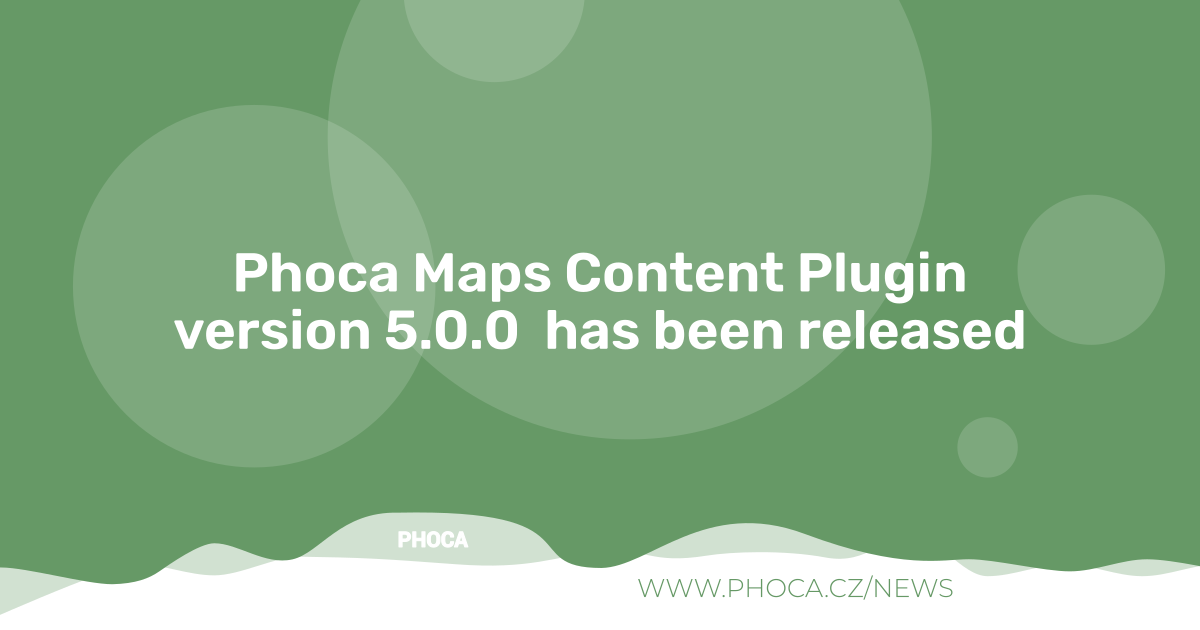
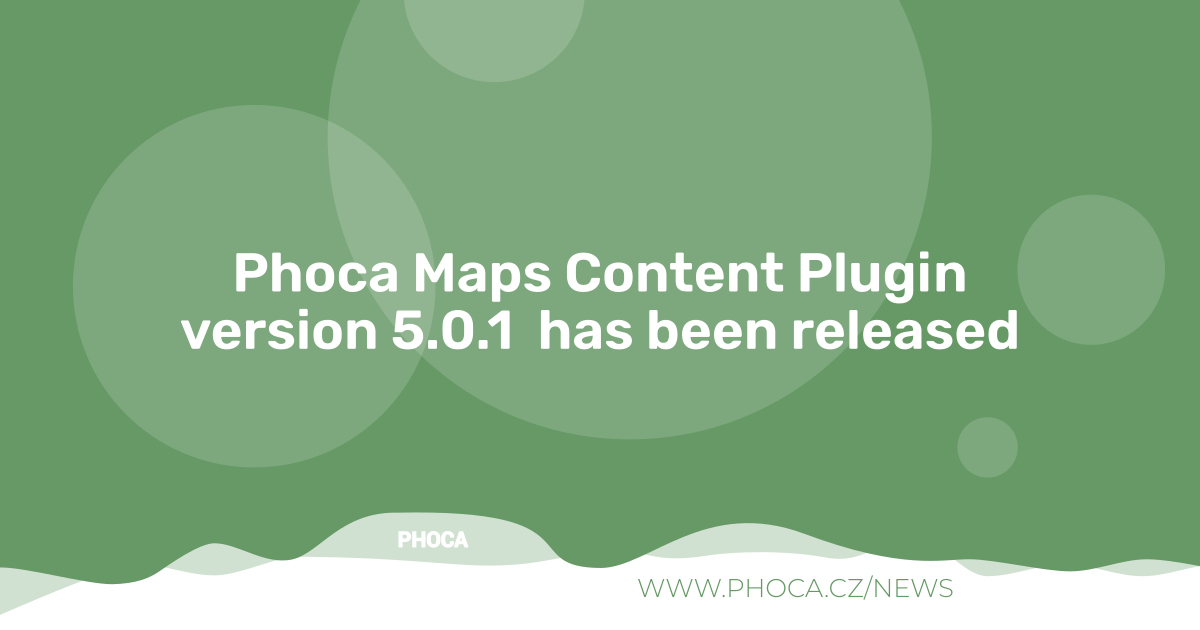
5.0.1

Changed region(s): [[0.1233, 0.4825, 0.8633, 0.573]]

diff --git a/tmpl/marker.php b/tmpl/marker.php
@@ -7,7 +7,7 @@
  * @license http://www.gnu.org/copyleft/gpl.html GNU/GPL
  */
 
-use Joomla\Language\Text;
+use Joomla\CMS\Language\Text;
 
 defined( '_JEXEC' ) or die( 'Restricted access' );
 

diff --git a/README.MD b/README.MD
@@ -66,7 +66,7 @@ Phoca Maps Plugin is a Joomla! plugin. With Phoca Maps Plugin you can display on
 
 ## Version (Joomla! 5.x)
 
-5.0.0
+5.0.1
 
 
 
